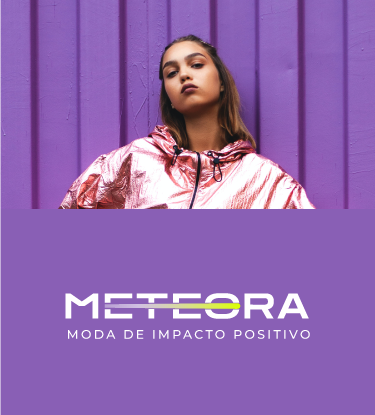
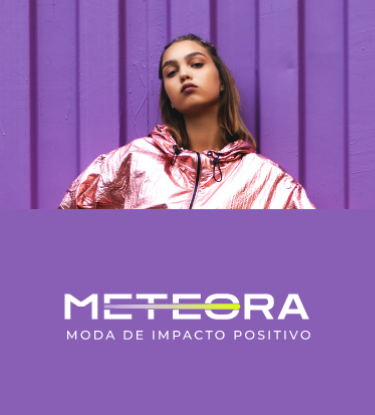
melhorias totais no carrossel, agr esta 98%

diff --git a/styles/componentes/_banner.scss b/styles/componentes/_banner.scss
@@ -7,46 +7,65 @@
   justify-content: space-between;
   align-items: center;
   width: 100%;
-  height: 650px;
+  height: 415px;
   flex-shrink: 0;
   .swiper {
     .swiper-wrapper {
       .carrossel_img {
-        img {
-          width: 100%;
-          height: 650px;
-        }
+        width: 100%;
+        height: 415px;
+      }
+      .primeira {
+        background: url(../../img/banner/Image.png) #895fb5 40% no-repeat;
+        background-size: cover;
+      }
+      .segunda {
+        background: url(../../img/banner/Imagembanner2-desktop.png) #895fb5 40%
+          no-repeat;
+        background-size: cover;
+      }
+      .terceira {
+        background: url(../../img/banner/Imagembanner3-desktop.png) #895fb5 40%
+          no-repeat;
+        background-size: cover;
       }
     }
+    .swiper-button-prev{
+      padding-left: 15px;
+     color: #fff ;
+    }
+    .swiper-button-next{
+      padding-right: 15px;
+      color: #fff ;
+     }
   }
 }
 
 // para tablet
 @media (max-width: 1100px) {
   .banner {
-    width: 100%;
-    display: flex;
-    justify-content: space-between;
-    align-items: center;
-    height: 415px;
-
-    background: url(../../img/banner/ImageTablet.png) #895fb5 40% no-repeat;
-
-    .esquerda {
-      background: none;
-      border: none;
-      padding-left: 47px;
-    }
-    .direita {
-      background: none;
-      border: none;
-      padding-right: 47px;
-    }
-    .marcadores {
-      display: block;
-      position: absolute;
-      right: 46%;
-      bottom: 20%;
+    .swiper {
+      .swiper-wrapper {
+        .carrossel_img {
+          width: 100%;
+          height: 415px;
+        }
+        .primeira {
+          background: url(../../img/banner/ImageTablet.png) #895fb5 10%
+            no-repeat;
+          background-size: cover;
+        }
+        .segunda {
+          background: url(../../img/banner/Imagembanner2-tablet.png) #895fb5 40%
+            no-repeat;
+          background-size: cover;
+        }
+        .terceira {
+          background: url(../../img/banner/Imagembanner3-tablet.png) #895fb5 40%
+            no-repeat;
+          background-size: cover;
+        }
+      }
     }
   }
 }
@@ -54,32 +73,29 @@
 // para celular
 @media (max-width: 414px) {
   .banner {
-    width: 100%;
-    display: flex;
-    margin-top: 75px;
-    justify-content: space-between;
-    align-items: center;
-    box-sizing: border-box;
-    height: 415px;
-
-    background: url(../../img/banner/ImageMOBILE.png) #895fb5 40% no-repeat;
-
-    .esquerda {
-      background: none;
-      border: none;
-      padding-left: 47px;
-    }
-    .direita {
-      background: none;
-      border: none;
-      padding-right: 47px;
-    }
-    .marcadores {
-      display: block;
-      position: absolute;
-      height: 20px;
-      right: 37%;
-      top: 55%;
+    margin-top: -16px;
+    .swiper {
+      .swiper-wrapper {
+        .carrossel_img {
+          width: 100%;
+          height: 415px;
+        }
+        .primeira {
+          background: url(../../img/banner/ImageMOBILE.png) #895fb5 10%
+            no-repeat;
+          background-size: cover;
+        }
+        .segunda {
+          background: url(../../img/banner/Imagembanner2-mobile.png) #895fb5 40%
+            no-repeat;
+          background-size: cover;
+        }
+        .terceira {
+          background: url(../../img/banner/Imagembanner3-mobile.png) #895fb5 40%
+            no-repeat;
+          background-size: cover;
+        }
+      }
     }
   }
 }

diff --git a/styles/style.css b/styles/style.css
@@ -263,67 +263,71 @@ a {
   justify-content: space-between;
   align-items: center;
   width: 100%;
-  height: 650px;
+  height: 415px;
   flex-shrink: 0;
 }
-.banner .swiper .swiper-wrapper .carrossel_img img {
+.banner .swiper .swiper-wrapper .carrossel_img {
   width: 100%;
-  height: 650px;
+  height: 415px;
+}
+.banner .swiper .swiper-wrapper .primeira {
+  background: url(../../img/banner/Image.png) #895fb5 40% no-repeat;
+  background-size: cover;
+}
+.banner .swiper .swiper-wrapper .segunda {
+  background: url(../../img/banner/Imagembanner2-desktop.png) #895fb5 40% no-repeat;
+  background-size: cover;
+}
+.banner .swiper .swiper-wrapper .terceira {
+  background: url(../../img/banner/Imagembanner3-desktop.png) #895fb5 40% no-repeat;
+  background-size: cover;
+}
+.banner .swiper .swiper-button-prev {
+  padding-left: 15px;
+  color: #fff;
+}
+.banner .swiper .swiper-button-next {
+  padding-right: 15px;
+  color: #fff;
 }
 
 @media (max-width: 1100px) {
-  .banner {
+  .banner .swiper .swiper-wrapper .carrossel_img {
     width: 100%;
-    display: flex;
-    justify-content: space-between;
-    align-items: center;
     height: 415px;
-    background: url(../../img/banner/ImageTablet.png) #895fb5 40% no-repeat;
   }
-  .banner .esquerda {
-    background: none;
-    border: none;
-    padding-left: 47px;
+  .banner .swiper .swiper-wrapper .primeira {
+    background: url(../../img/banner/ImageTablet.png) #895fb5 10% no-repeat;
+    background-size: cover;
   }
-  .banner .direita {
-    background: none;
-    border: none;
-    padding-right: 47px;
+  .banner .swiper .swiper-wrapper .segunda {
+    background: url(../../img/banner/Imagembanner2-tablet.png) #895fb5 40% no-repeat;
+    background-size: cover;
   }
-  .banner .marcadores {
-    display: block;
-    position: absolute;
-    right: 46%;
-    bottom: 20%;
+  .banner .swiper .swiper-wrapper .terceira {
+    background: url(../../img/banner/Imagembanner3-tablet.png) #895fb5 40% no-repeat;
+    background-size: cover;
   }
 }
 @media (max-width: 414px) {
   .banner {
+    margin-top: -16px;
+  }
+  .banner .swiper .swiper-wrapper .carrossel_img {
     width: 100%;
-    display: flex;
-    margin-top: 75px;
-    justify-content: space-between;
-    align-items: center;
-    box-sizing: border-box;
     height: 415px;
-    background: url(../../img/banner/ImageMOBILE.png) #895fb5 40% no-repeat;
   }
-  .banner .esquerda {
-    background: none;
-    border: none;
-    padding-left: 47px;
+  .banner .swiper .swiper-wrapper .primeira {
+    background: url(../../img/banner/ImageMOBILE.png) #895fb5 10% no-repeat;
+    background-size: cover;
   }
-  .banner .direita {
-    background: none;
-    border: none;
-    padding-right: 47px;
+  .banner .swiper .swiper-wrapper .segunda {
+    background: url(../../img/banner/Imagembanner2-mobile.png) #895fb5 40% no-repeat;
+    background-size: cover;
   }
-  .banner .marcadores {
-    display: block;
-    position: absolute;
-    height: 20px;
-    right: 37%;
-    top: 55%;
+  .banner .swiper .swiper-wrapper .terceira {
+    background: url(../../img/banner/Imagembanner3-mobile.png) #895fb5 40% no-repeat;
+    background-size: cover;
   }
 }
 .categoria-container {
@@ -658,8 +662,8 @@ a {
     flex-shrink: 0;
   }
   .newslatter .container-news {
-    width: 690px;
-    padding: 40px;
+    width: 90%;
+    padding: 40px 0;
   }
 }
 @media (max-width: 414px) {

diff --git a/index.html b/index.html
@@ -61,6 +61,7 @@
         <input class="btn-submit" type="submit" value="Buscar" />
       </form>
     </header>
+    
     <!-- banner ______________________________ -->
     <section class="banner">
       <!-- Slider main container -->
@@ -68,9 +69,9 @@
         <!-- Additional required wrapper -->
         <div class="swiper-wrapper">
           <!-- Slides -->
-          <div class="swiper-slide carrossel_img"><img src="img/banner/Image.png" alt="primeira foto"></div>
-          <div class="swiper-slide carrossel_img"><img src="img/banner/Imagem banner2.png" alt="segunda imagem"></div>
-          <div class="swiper-slide carrossel_img"><img src="img/banner/Imagem banner 3.png" alt="iamgem 3"></div>
+          <div class="swiper-slide carrossel_img primeira"></div>
+          <div class="swiper-slide carrossel_img segunda"></div>
+          <div class="swiper-slide carrossel_img terceira"></div>
         </div>
         <!-- If we need pagination -->
         <div class="swiper-pagination bolinhas_nav"></div>
@@ -83,6 +84,7 @@
         <div class="swiper-scrollbar"></div> -->
       </div>
     </section>
+
     <!-- categorias ______________________________ -->
     <section class="categoria-container">
       <h2>Busque por categoria:</h2>
@@ -130,10 +132,12 @@
         </div>
       </div>
     </section>
+
     <!-- produtos ______________________________ -->
     <section class="produtos-container">
       <h2>Produtos que estão bombando!</h2>
       <div class="produtos">
+        
         <div class="produtos-item">
           <figure>
             <img src="img/produtos/Camiseta.png" alt="Camiseta Conforto" />
@@ -202,6 +206,7 @@
         </div>
       </div>
     </section>
+
     <!-- redes ______________________________ -->
     <div class="redes-container">
       <h3>Conheça todas as nossas facilidades</h3>
@@ -235,6 +240,7 @@
         </div>
       </div>
     </div>
+
     <!-- newslatter ______________________________ -->
     <div class="newslatter">
       <div class="container-news">
@@ -254,6 +260,7 @@
         2023 © Desenvolvido por Alura | Projeto fictício sem fins comerciais.
       </p>
     </footer>
+    
     <script src="https://cdn.jsdelivr.net/npm/swiper@10.0.4/swiper-bundle.min.js"></script>
     <script src="app/script.js"></script>
     <script src="app/componentes/header.js"></script>

diff --git a/styles/componentes/_newslatter.scss b/styles/componentes/_newslatter.scss
@@ -78,8 +78,8 @@
     gap: 16px;
     flex-shrink: 0;
     .container-news {
-      width: 690px;
-      padding: 40px;
+      width: 90%;
+      padding: 40px 0;
     }
   }
 }
